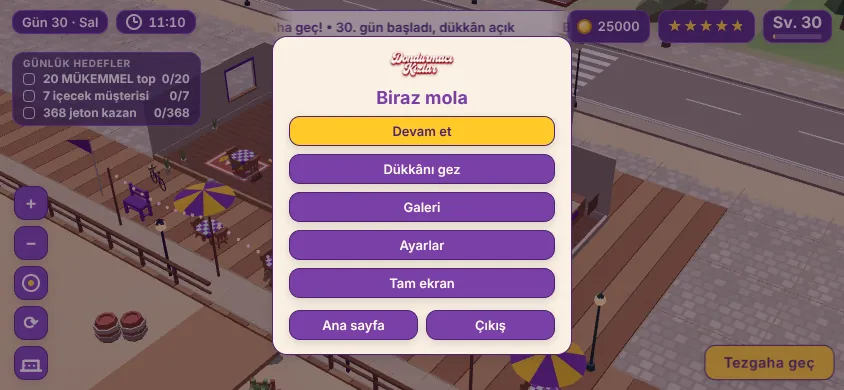
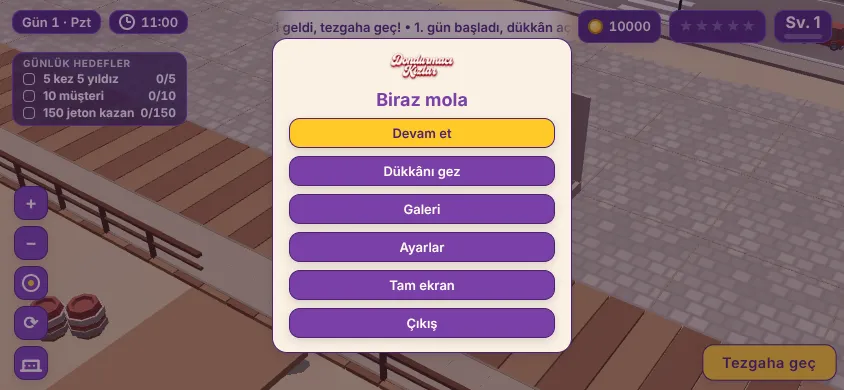
Çıkış giriş ekranına döner (Ana sayfa ile birleşti)
Kemal: "çıkış derken giriş ekranına dönmekten bahsettim, ana sayfa gibi düşün".
Mola menüsünde tek düğme: Çıkış, dükkânı kaydedip açılış ekranına döner.

Claude-Session: https://claude.ai/code/session_011qBXwDPHb9Dyfk614hsxLA

diff --git a/src/arayuz/Duraklat.tsx b/src/arayuz/Duraklat.tsx
@@ -1,5 +1,5 @@
 import { useState } from 'react';
-import { anaSayfayaDon, devamEt, duraklat, kaydetVeKapat, duraklatilabilir, gezmeyeBasla, gezmeyiBitir, kayitYuvasi, useDurum } from '../oyun/durum';
+import { anaSayfayaDon, devamEt, duraklat, duraklatilabilir, gezmeyeBasla, gezmeyiBitir, kayitYuvasi, useDurum } from '../oyun/durum';
 import { fotoEkle } from '../oyun/galeri';
 import { Galeri } from './Galeri';
 import { tamEkraniDegistir, tamEkranVar, useTamEkran } from './tamEkran';
@@ -24,24 +24,9 @@ export function DuraklatDugmesi() {
 export function DuraklatMenusu({ ayarlar }: { ayarlar: () => void }) {
   const durum = useDurum();
   const [galeri, setGaleri] = useState(false);
-  const [cikis, setCikis] = useState(false);
   const tamEkran = useTamEkran();
   if (!durum.duraklatildi || durum.gezme) return null;
   if (galeri) return <Galeri kapat={() => setGaleri(false)} />;
-  // Çıkış: kayıt alındı; tarayıcı sekmeyi kapatmazsa bu yazı kalır
-  if (cikis)
-    return (
-      <div className="gun-sonu-zemin">
-        <div className="gun-sonu duraklat-menu" role="dialog" aria-labelledby="cikis-baslik">
-          <img className="baslik-logo" src={logoAdresi('yazi')} alt="" aria-hidden />
-          <h2 id="cikis-baslik">{m('duraklat.kaydedildi')}</h2>
-          <p className="gel-not">{m('duraklat.kapatabilirsin')}</p>
-          <button className="dugme dugme-yeni-gun" onClick={() => setCikis(false)}>
-            {m('duraklat.devam')}
-          </button>
-        </div>
-      </div>
-    );
   return (
     <div className="gun-sonu-zemin">
       <div className="gun-sonu duraklat-menu" role="dialog" aria-labelledby="duraklat-baslik">
@@ -64,20 +49,10 @@ export function DuraklatMenusu({ ayarlar }: { ayarlar: () => void }) {
             {m(tamEkran ? 'duraklat.tamEkrandanCik' : 'duraklat.tamEkran')}
           </button>
         )}
-        <div className="duraklat-alt">
-          <button className="dugme" onClick={anaSayfayaDon}>
-            {m('duraklat.anaSayfa')}
-          </button>
-          <button
-            className="dugme"
-            onClick={() => {
-              kaydetVeKapat();
-              setCikis(true);
-            }}
-          >
-            {m('duraklat.cikis')}
-          </button>
-        </div>
+        {/* Çıkış: kaydedip giriş ekranına döner (Kemal, 15 Ekim akşam: "ana sayfa gibi düşün") */}
+        <button className="dugme" onClick={anaSayfayaDon}>
+          {m('duraklat.cikis')}
+        </button>
       </div>
     </div>
   );

diff --git a/src/oyun/durum.ts b/src/oyun/durum.ts
@@ -2385,7 +2385,7 @@ export function denemeDukkani() {
   haberVer('haber.deneme');
   acilisiKapat();
 }
-// Mola menüsünden ana sayfaya dönüş (Kemal, 15 Ekim akşam): dükkân kaydedilir,
+// Mola menüsünden Çıkış (Kemal, 15 Ekim akşam: giriş ekranına dönüş): dükkân kaydedilir,
 // açılış ekranı gelir; arkada yine oyuncunun kendi dükkânı görünür.
 export function anaSayfayaDon() {
   if (!denemedeMi()) kaydet();
@@ -2393,15 +2393,6 @@ export function anaSayfayaDon() {
   durumuSifirla();
   kaydiYukle();
   guncelle({ acilis: true, duraklatildi: false, gezme: false });
-}
-// Çıkış: kaydedip sekmeyi kapatmayı dener (tarayıcı izin verirse)
-export function kaydetVeKapat() {
-  if (!denemedeMi()) kaydet();
-  try {
-    window.close();
-  } catch {
-    // kapatılamadı; ekranda "kaydedildi" yazısı kalır
-  }
 }
 export function denemedeMi() {
   return kayitAnahtari === DENEME_ANAHTARI;

diff --git a/src/stil.css b/src/stil.css
@@ -2705,16 +2705,6 @@ li.tamam .hedef-ad {
   gap: 4px;
 }
 
-/* Mola menüsünün altında Ana sayfa ve Çıkış yan yana (15 Ekim akşam) */
-.duraklat-alt {
-  display: flex;
-  gap: 8px;
-  margin-top: 4px;
-}
-.duraklat-alt .dugme {
-  flex: 1;
-  margin: 0;
-}
 
 /* İnşaat paneli sağda dar bir sütun (15 Ekim akşam): sahne ve seçili duvar görünsün */
 .insaat-panel {

diff --git a/docs/yol-haritasi.md b/docs/yol-haritasi.md
@@ -74,7 +74,7 @@ yapar; Kemal "şimdi" demedikçe işler bu sırayla gider.
 - Günlük hedefler, yorumlar, sıra dalgası, otomatik kamera ayarı (8c) · [#44](https://github.com/hkemal94/DondumaciKizlar/pull/44)
 - Hatalar: içecek / waffle istasyonundayken gün bitmiyordu; buzdolabı arkadan taşıyordu; İnşaat'ta tezgah / mutfak taşıma ipuçları; deneme dükkânı yeniden yerleşti · [#45](https://github.com/hkemal94/DondumaciKizlar/pull/45)
 - İnce arayüz (9a): ince kenar, yumuşak gölge, küçük yazı; menüler sağdan açılır; arka yolda çizgiler, yaya geçitleri, bordür, eski tip sokak lambaları · [#46](https://github.com/hkemal94/DondumaciKizlar/pull/46)
-- Hatalar (15 Ekim akşam): mola menüsünde Ana sayfa, Çıkış, Tam ekran; buzdolabı duvardan taşmıyor; tente aşağı eğik, tabelayı kesmiyor; dükkânın arkasındaki ilk sıra alçak evler; yardımcı adayları hazır adla; saçlar gerçekte olanlarla (kadın 2, erkek 4); önlük "Yok"; İnşaat'ta "Ne yapmak istersin?" menüsü (tezgahı taşı, pencere ve kapı, duvarlar arasında oklarla gezme) · bu PR
+- Hatalar (15 Ekim akşam): mola menüsünde Çıkış (giriş ekranına döner) ve Tam ekran; buzdolabı duvardan taşmıyor; tente aşağı eğik, tabelayı kesmiyor; dükkânın arkasındaki ilk sıra alçak evler; yardımcı adayları hazır adla; saçlar gerçekte olanlarla (kadın 2, erkek 4); önlük "Yok"; İnşaat'ta "Ne yapmak istersin?" menüsü (tezgahı taşı, pencere ve kapı, duvarlar arasında oklarla gezme) · bu PR
 - Vitrin ve bar model adayları (9b): `docs/gorseller/vitrin-bar-adaylari/` · bu PR
 
 ## Bilinen eksikler
@@ -83,7 +83,7 @@ yapar; Kemal "şimdi" demedikçe işler bu sırayla gider.
 - Bugünkü başlangıç dükkânının içi tezgahla dolu; halı için önce büyütmek gerekiyor
 - Çocuk müşteri yok (seçilen pakette çocuk yok)
 - Saç çeşidi az: pakette kadın için 2, erkek için 4 saç var; daha çoğu yeni model ister
-- Tam ekran iPhone Safari'de yok (tarayıcı izin vermiyor; düğme orada görünmez). "Çıkış" sekmeyi ancak tarayıcı izin verirse kapatır; vermezse "sekmeyi kapatabilirsin" yazar. Gün ortasında çıkınca o günün bütün ayrıntıları (sıradaki müşteriler, saat) saklanmaz
+- Tam ekran iPhone Safari'de yok (tarayıcı izin vermiyor; düğme orada görünmez). Gün ortasında Çıkış'a basılınca o günün sırası ve saati saklanmaz
 
 ## Yayından önce
 

diff --git a/docs/tasarim-belgesi.md b/docs/tasarim-belgesi.md
@@ -460,7 +460,7 @@ konusunda komple assetlere ihtiyacımız olabilir."
 
 | Konu | Karar / yapılan |
 |---|---|
-| Mola menüsü | "Anasayfaya dönüş, çıkış yok": **Ana sayfa** (kaydeder, açılış ekranına döner) ve **Çıkış** (kaydeder, sekmeyi kapatmayı dener; tarayıcı izin vermezse "kaydedildi" yazar) |
+| Mola menüsü | "Anasayfaya dönüş, çıkış yok"; "çıkış derken giriş ekranına dönmekten bahsettim, ana sayfa gibi düşün": tek düğme **Çıkış**, dükkânı kaydeder ve giriş (açılış) ekranına döner |
 | Tam ekran | "Web'den oynadığımız için tam ekran düğmesi": mola menüsünde ve açılışta **Tam ekran**; açılınca ekran yatay kilitlenmeye çalışır. iPhone Safari izin vermiyor, orada düğme görünmez |
 | Arkadaki evler | Dükkânın tam arkasındaki ilk sıra yalnız alçak evlerden (görüntüyü kesmesin) |
 | Yardımcı adayları | "Hepsine sen bir isim yaz, ben değiştirebileyim": adaylar hazır adla gelir (görünüşüne uyan, dükkânda olmayan; 2000'lerin sık adları), kutudan değişir. Kanon değil |
